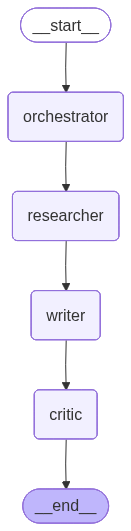
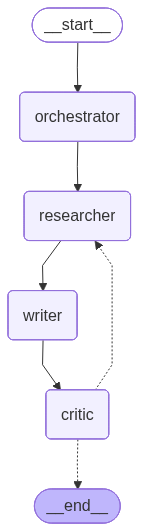
added tavily search

diff --git a/backend/nodes/researcher.py b/backend/nodes/researcher.py
@@ -1,23 +1,70 @@
+import os
 from config import researcher_llm
 from state  import AgentState
-from langchain_core.messages import SystemMessage, HumanMessage
+from langchain_core.messages import SystemMessage, HumanMessage, ToolMessage
+from langchain.tools import tool
+from tavily import TavilyClient
+from dotenv import load_dotenv
+load_dotenv()
+
+TAVILY_API_KEY = os.getenv("TAVILY_API_KEY")
+
+@tool
+def search_tavily(query: str):
+    """Searches the web for current, up-to-date information."""
+    tavily_client = TavilyClient(api_key=TAVILY_API_KEY)
+    response = tavily_client.search(query)
+    return response
+
+tools = [search_tavily]
+tools_by_name = {tool.name: tool for tool in tools}
+model_with_tools = researcher_llm.bind_tools(tools)
 
 def researcher_node(state: AgentState) -> dict:
-    # 1. Read the shared blackboard (the Orchestrator's plan)
     notes = "\n".join(state["research_notes"])
     
-    # 2. Package the context using proper Message objects
     messages = [
-        SystemMessage(content="You are a researcher. Find detailed information to answer the goal."),
+        SystemMessage(content="You are a researcher. Find detailed information to answer the goal. YOU MUST USE YOUR SEARCH TOOL to find real data."),
         HumanMessage(content=f"Goal: {state['goal']}\nPlan so far: {notes}")
     ]
     
     # 3. Call the LLM
-    response = researcher_llm.invoke(messages)
+    response = model_with_tools.invoke(messages)
     
-    # 4. Update the state with the new research
+    if response.tool_calls:
+        messages.append(response) # Save the AI's request to search
+        
+        # Run the actual python function
+        for tool_call in response.tool_calls:
+            if tool_call["name"] == "search_tavily":
+                print(f"--- RESEARCHER IS SEARCHING THE WEB FOR: {tool_call['args']['query']} ---")
+                tool_result = search_tavily.invoke(tool_call)
+                messages.append(ToolMessage(content=tool_result, tool_call_id=tool_call["id"]))
+        
+        final_response = model_with_tools.invoke(messages)
+        final_content = final_response.content
+    else:
+        final_content = response.content
+    
     return {
-        "research_notes": [response.content],
+        "research_notes": [final_content],
         "attempts": state.get("attempts", 0) + 1,
         "current_agent": "researcher"
     }
+
+
+
+
+
+
+# AIMessage(
+    content="",    # <--- Notice the content is completely empty!
+    tool_calls=[
+        {
+            "name": "search_tavily",
+            "args": {
+                "query": "latest advancements in solid-state batteries"
+            },
+            "id": "call_abc123xyz"
+        }
+    ]

diff --git a/backend/graph.py b/backend/graph.py
@@ -33,18 +33,18 @@ agent_builder.add_edge("writer", "critic")           # Writer gives draft to Cri
 #  the magic loop!
 agent_builder.add_conditional_edges(
     "critic", 
-    route_after_critic
+    route_after_critic,
+    ["researcher", END]
 )
 
-# Compile
 agent = agent_builder.compile()
 
-graph_image_data = agent.get_graph(xray=True).draw_mermaid_png()
-with open("agent_graph.png", "wb") as f:
-    f.write(graph_image_data)
-print("Graph saved as agent_graph.png! Check your folder.")
+# graph_image_data = agent.get_graph(xray=True).draw_mermaid_png()
+# with open("agent_graph.png", "wb") as f:
+#     f.write(graph_image_data)
+# print("Graph saved as agent_graph.png! Check your folder.")
 # --- the Agent ---
-user_prompt = "Give a detailed comparison between Rohit and Virat , who is better for World Cup?."
+user_prompt = "Give a detailed comparison between Rohit and Virat , who is better for World Cup, what was their last ipl score?."
 
 initial_state = {
     "goal": user_prompt,   